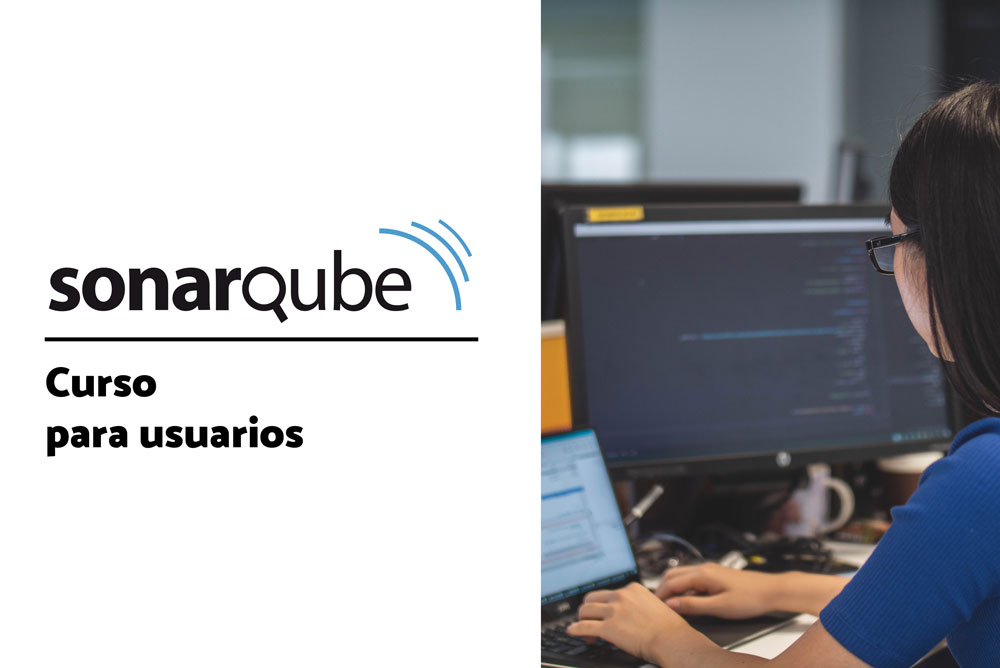
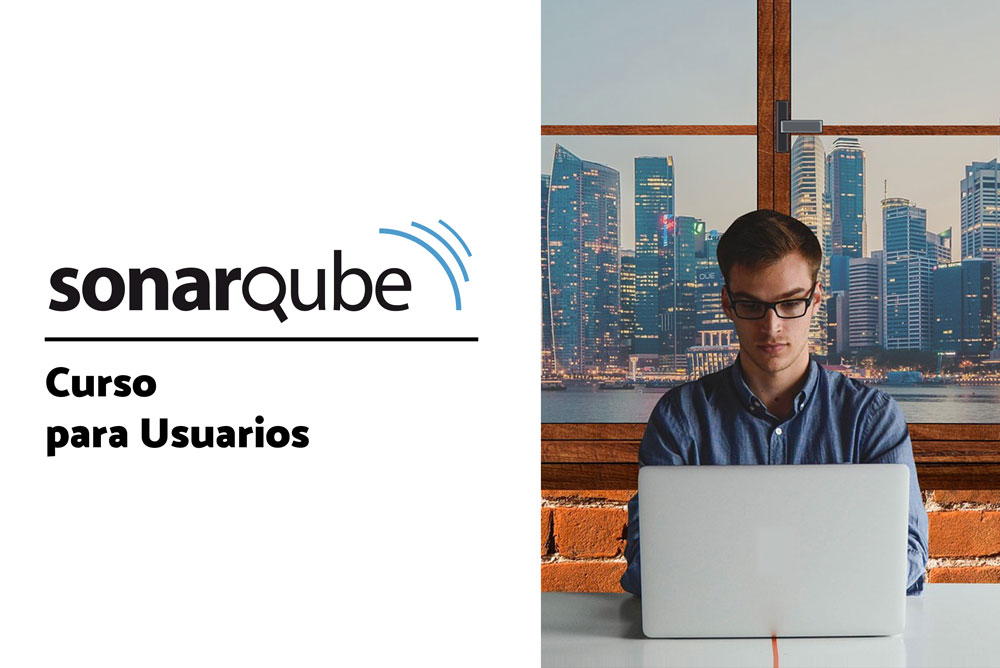
Curso SonarQube Usuarios Updated

diff --git a/index.html b/index.html
@@ -114,7 +114,7 @@ redirect_from:
               <h3>FORMACIÓN</h3>
               <p>
                 Transmitimos el conocimiento a los equipos tanto en las mejores prácticas como en el uso de las herramientas.
-                Cursos de calidad del software, inspección continua, gestión de procesos y productos de <strong>Atlassian</strong> y <strong>SonarSource</strong>.
+                Cursos de calidad del software, inspección continua, gestión de procesos y productos de <a href="/formacion" style="color:#0052CC"><strong>Atlassian</strong></a> y <a href="/formacion" style="color:#e03734"><strong>SonarSource</strong></a>.
               </p>
             </div>
           </div>
@@ -329,8 +329,8 @@ redirect_from:
       <div class="col-md-4">
         <div class="tarjeta-con-imagen">
           <div class="informacion-curso">
-            <img width="100%" src="/img/formacion/curso-avanzado-de-sonarqube-en-espanol-para-empresas-y-profesionales.jpg" alt="Cursos Avanzado de SonarQube en español para empresas y profesionales" style="border:1px solid #333">
-            <h3>Curso SonarQube <br/>Avanzado</h3>
+            <img width="100%" src="/img/formacion/curso-sonarqube-para-usuarios-en-espanol-para-empresas-y-profesionales.jpg" alt="Cursos de SonarQube para usuarios en español para empresas y profesionales" style="border:1px solid #333;">
+            <h3>Curso SonarQube <br/>para Usuarios</h3>
             <h4 class="text-left"> Formación Online en Directo</h4>
             <p class="product-usage-description text-left" style="font-size:1.1em">
               Abierta lista de espera para el <strong>2022</strong>.
@@ -339,7 +339,7 @@ redirect_from:
             </p>
           </div>
           <div class="enlace-curso">
-              <a href="/curso-sonarqube-avanzado" class="btn btn-warning btn-xl sonarsource-background" style="border-radius: 4px;">SABER MÁS</a>
+            <a href="/curso-sonarqube-usuarios" class="btn btn-warning btn-xl sonarsource-background" style="border-radius: 4px;">SABER MÁS</a>
           </div>
         </div>
       </div>
@@ -347,8 +347,8 @@ redirect_from:
       <div class="col-md-4">
         <div class="tarjeta-con-imagen">
           <div class="informacion-curso">
-            <img width="100%" src="/img/formacion/curso-de-fundamentos-de-sonarqube-en-espanol-para-empresas-y-profesionales.jpg" alt="Cursos Fundamentos de SonarQube en español para empresas y profesionales" style="border:1px solid #333;">
-            <h3>Curso SonarQube <br/>Fundamentos</h3>
+            <img width="100%" src="/img/formacion/curso-sonarqube-para-administradores-en-espanol-para-empresas-y-profesionales.jpg" alt="Cursos de SonarQube para administradores en español para empresas y profesionales" style="border:1px solid #333">
+            <h3>Curso SonarQube <br/>para Administradores</h3>
             <h4 class="text-left"> Formación Online en Directo</h4>
             <p class="product-usage-description text-left" style="font-size:1.1em">
               Abierta lista de espera para el <strong>2022</strong>.
@@ -357,7 +357,7 @@ redirect_from:
             </p>
           </div>
           <div class="enlace-curso">
-            <a href="/curso-sonarqube-fundamentos" class="btn btn-warning btn-xl sonarsource-background" style="border-radius: 4px;">SABER MÁS</a>
+              <a href="/curso-sonarqube-administradores" class="btn btn-warning btn-xl sonarsource-background" style="border-radius: 4px;">SABER MÁS</a>
           </div>
         </div>
       </div>

diff --git a/curso-sonarqube-usuarios.html b/curso-sonarqube-usuarios.html
@@ -7,7 +7,7 @@ description: Curso SonarQube para usuarios. Curso SonarQube para empresas y prof
 <section id="curso-sonarqube-usuarios-cabecera" class="bg-primary text-center">
   <div class="container">
     <div class="row title">
-      <h2>Curso SonarQube para usuarios</h2>
+      <h2>Curso SonarQube para Usuarios</h2>
     </div>
     <div class="row">
       <div class="col-md-6 text-left">
@@ -226,8 +226,8 @@ description: Curso SonarQube para usuarios. Curso SonarQube para empresas y prof
       <div class="col-md-4">
         <div class="tarjeta-con-imagen">
           <div class="informacion-curso">
-            <img width="100%" src="/img/formacion/curso-avanzado-de-sonarqube-en-espanol-para-empresas-y-profesionales.jpg" alt="Cursos Avanzado de SonarQube en español para empresas y profesionales" style="border:1px solid #333">
-            <h3>Curso SonarQube <br/>para administradores</h3>
+            <img width="100%" src="/img/formacion/curso-sonarqube-para-administradores-en-espanol-para-empresas-y-profesionales.jpg" alt="Cursos de SonarQube para administradores. Curso SonarQube en español para empresas y profesionales" style="border:1px solid #333">
+            <h3>Curso SonarQube <br/>para Administradores</h3>
             <h4 class="text-left"> Formación Online en Directo</h4>
             <p class="product-usage-description text-left" style="font-size:1em">
               Abierta lista de espera para el <strong>2022</strong>.
@@ -235,7 +235,7 @@ description: Curso SonarQube para usuarios. Curso SonarQube para empresas y prof
             <br/>
           </div>
           <div class="enlace-curso">
-              <a href="/curso-sonarqube-avanzado" class="btn btn-warning btn-xl sonarsource-background" style="border-radius: 4px;">SABER MÁS</a>
+              <a href="/curso-sonarqube-administradores" class="btn btn-warning btn-xl sonarsource-background" style="border-radius: 4px;">SABER MÁS</a>
           </div>
         </div>
       </div>
